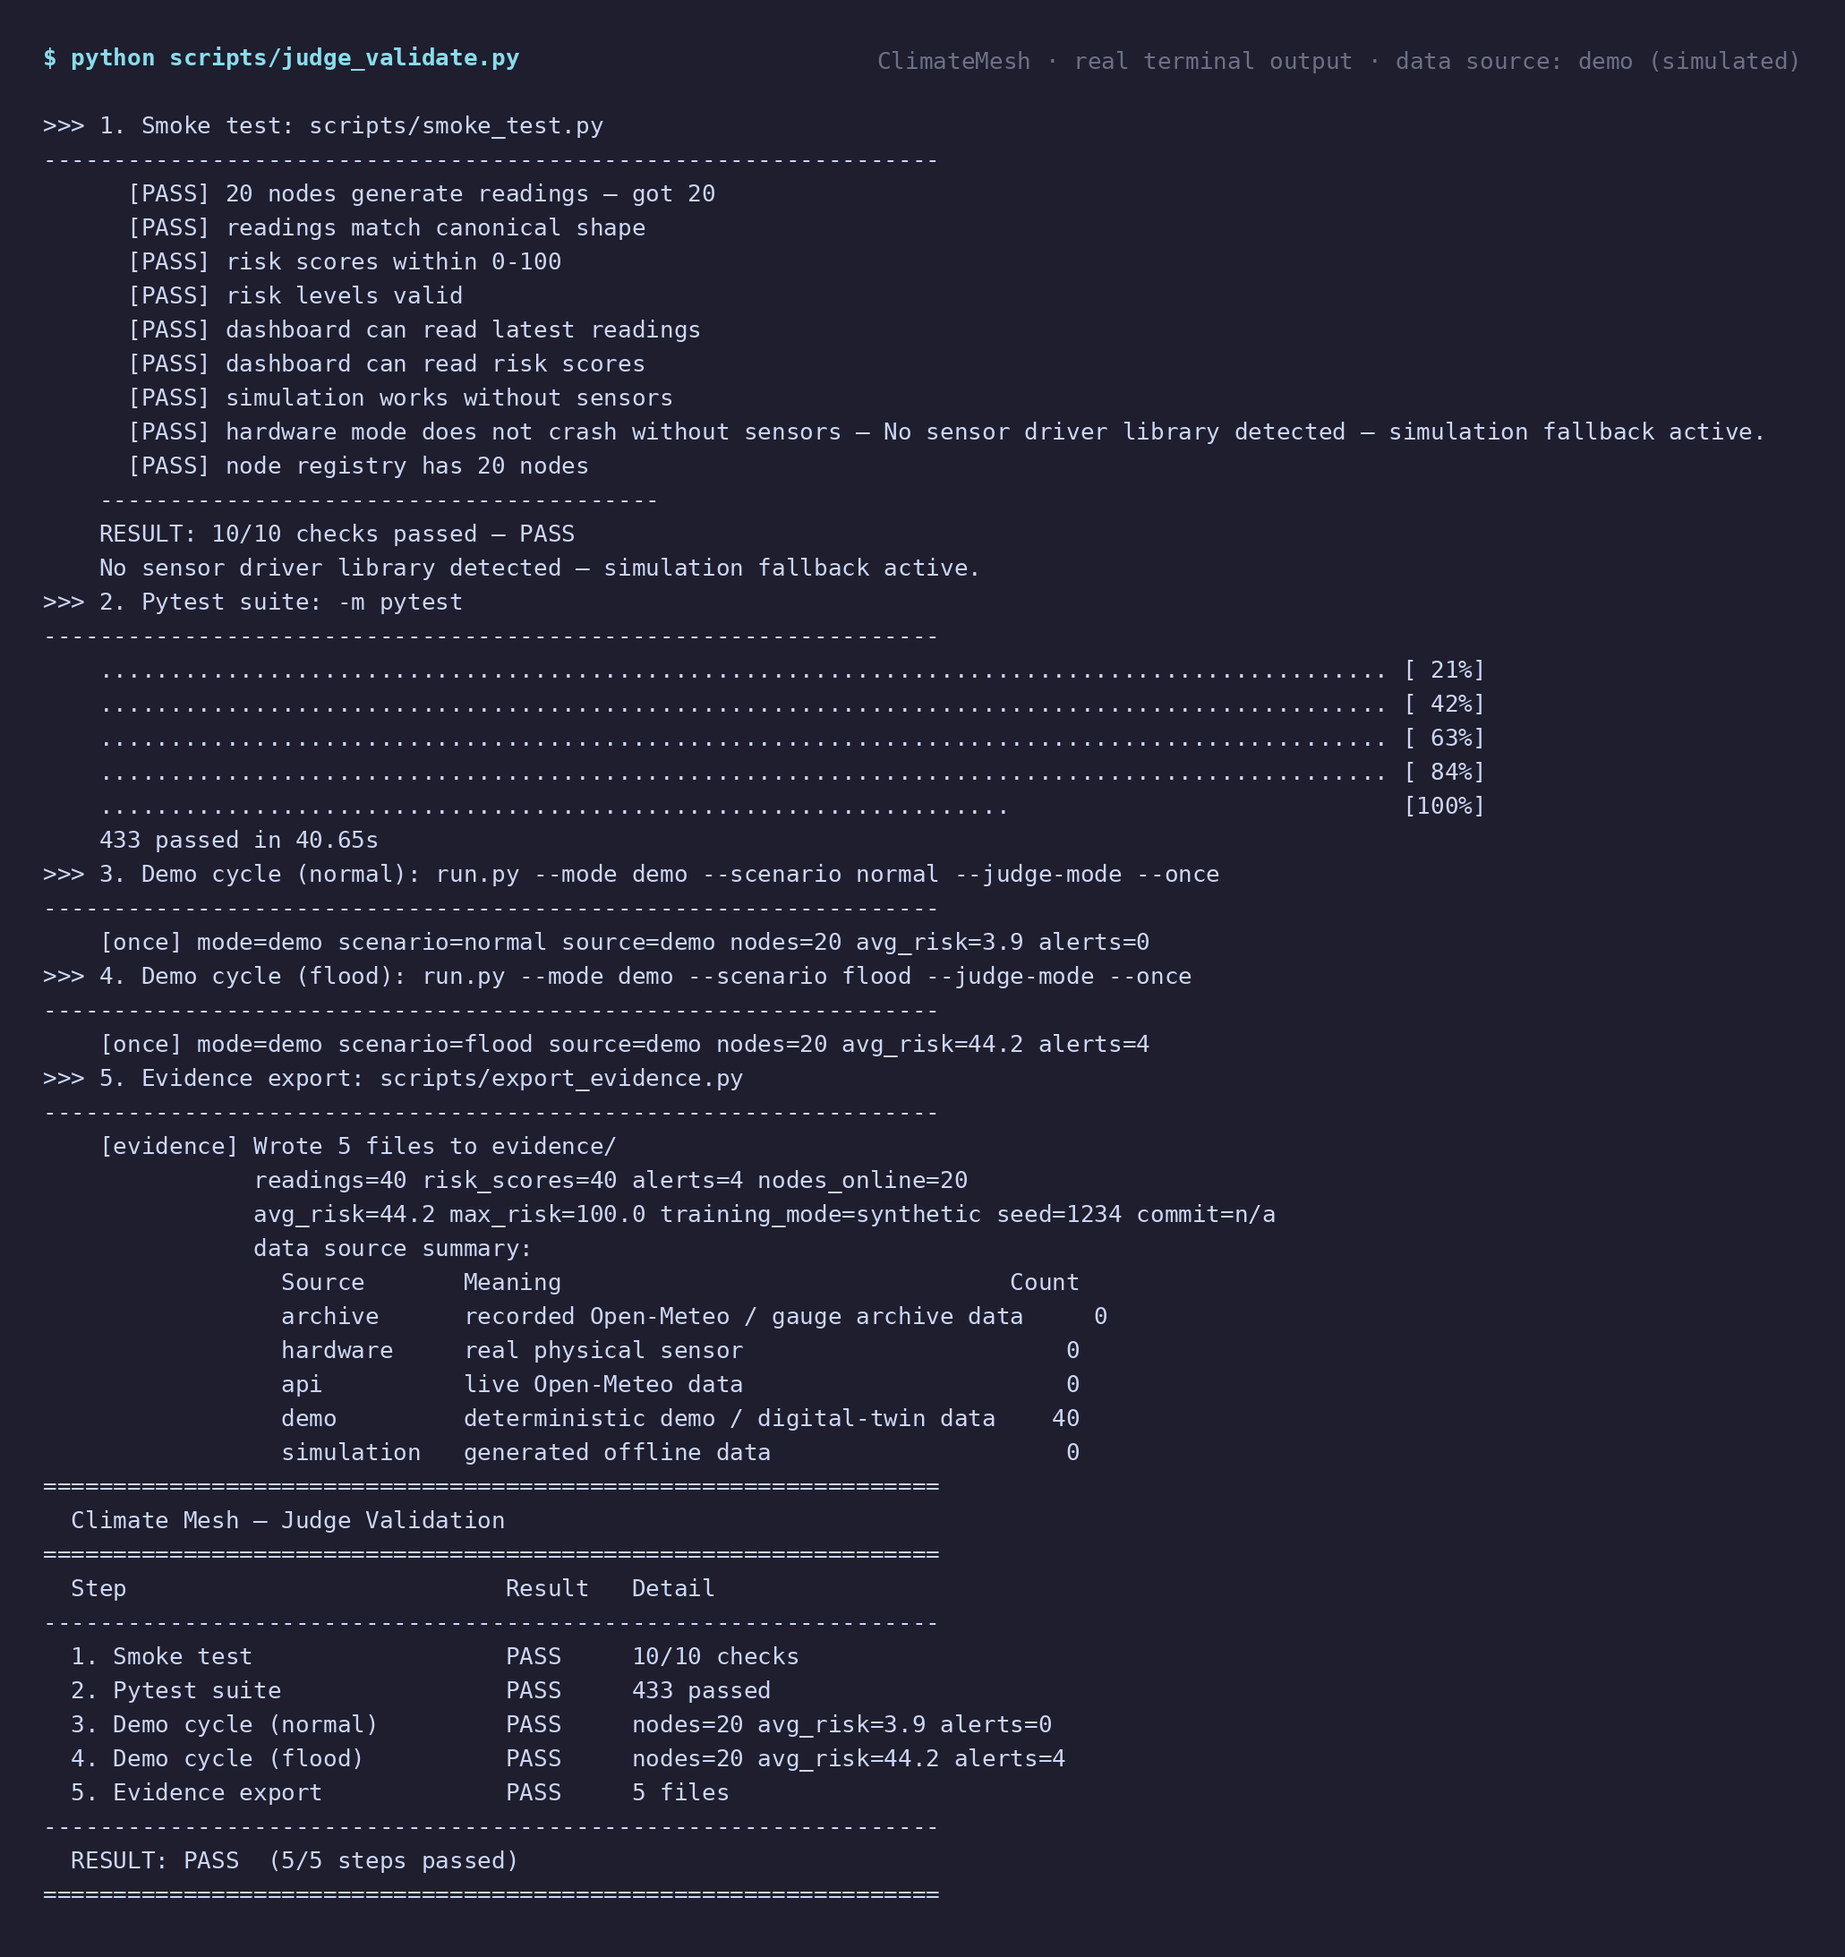
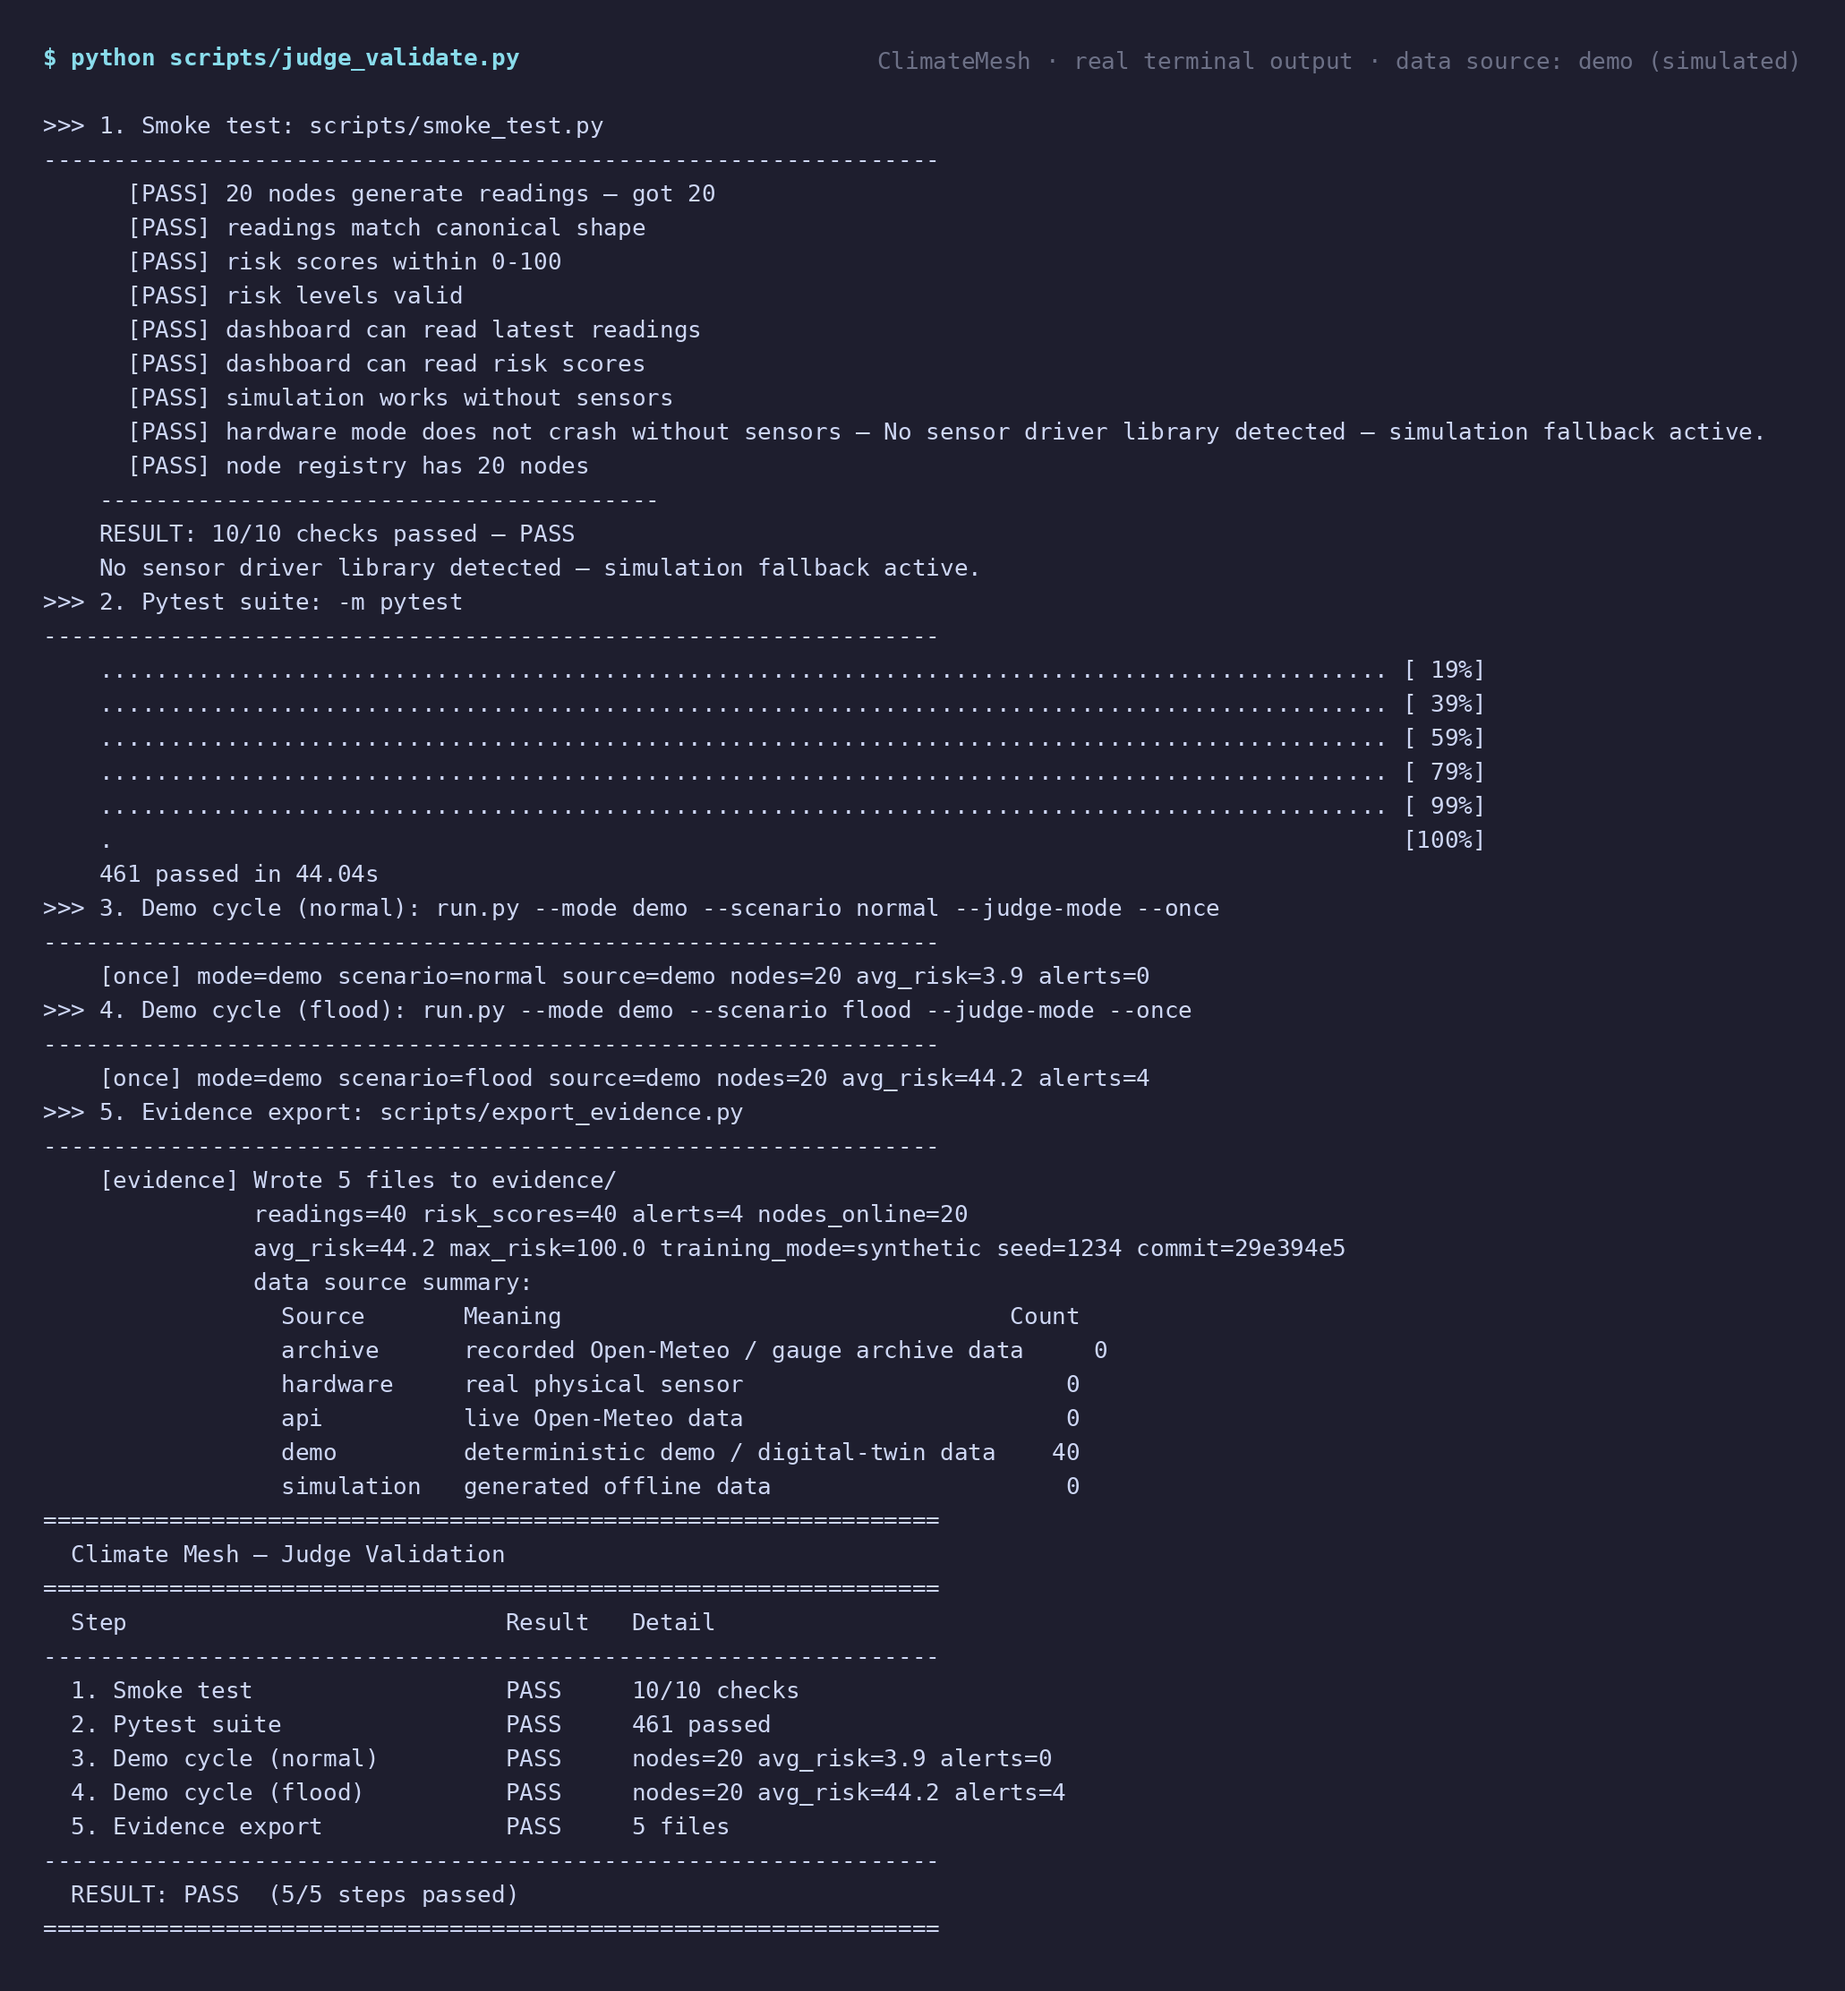
Refresh the test count, terminal captures and evidence card (461 tests)
Measured on Python 3.11 Linux: pytest 461 passed; judge_validate PASS 5/5.

diff --git a/README.md b/README.md
@@ -35,7 +35,7 @@ with no cloud subscription.
 **Measured results** *(from this repo's deterministic simulation/demo pipeline —
 not field measurements; no physical sensor has been validated yet)*:
 
-- **433/433 automated tests pass** on Python 3.11 in the recorded-event verification. The project also provides CI for Python 3.11/3.13 and 64-bit Arm Linux, plus `python scripts/judge_validate.py`.
+- **461/461 automated tests pass** on Python 3.11 (Linux, 3 November 2026). The project also provides CI for Python 3.11/3.13 and 64-bit Arm Linux, plus `python scripts/judge_validate.py`.
 - The demo tour (`python scripts/demo_tour.py`, a few seconds) discriminates
   correctly across scenarios: **normal stays SAFE** (avg risk 3.9, 0 alerts)
   while **flood escalates the right nodes** (Regent's Canal → CRITICAL
@@ -164,7 +164,7 @@ Vernier Go Direct Weather sensor is connected over USB, that node switches to
 ## Quick start (any computer)
 
 **Prerequisites:** Python **3.11, 3.12 or 3.13** and `git`. The recorded-event
-replay and current 433-test suite were verified here on Python 3.11.2.
+replay was verified on Python 3.11.2; the current 461-test suite passes on Python 3.11.
 CI runs 3.11 (what Raspberry Pi OS Bookworm
 ships) and 3.13 (what the Trixie-based release ships) on x86-64, plus 3.11 on
 a 64-bit Arm runner that installs prebuilt wheels only. Nothing else is needed
@@ -194,7 +194,7 @@ pytest
 step. One command runs everything a reviewer needs:
 
 ```bash
-python scripts/judge_validate.py   # smoke test + all 433 tests + 2 demo cycles + export
+python scripts/judge_validate.py   # smoke test + all 461 tests + 2 demo cycles + export
 python scripts/evaluate.py         # detection and false-alarm rates vs a thresholds-only baseline
 ```
 
@@ -720,7 +720,7 @@ action playbooks**, **mesh correlation**, a **local digital twin**, and
 ```bash
 python scripts/judge_validate.py     # one command: smoke + pytest + demos + export
 python scripts/demo_tour.py          # one command: all 5 scenarios, deterministic
-pytest                               # the full unit-test suite (433 tests)
+pytest                               # the full unit-test suite (461 tests)
 python scripts/smoke_test.py
 python scripts/run_validation.py --mode demo --scenario flood
 python scripts/test_hardware_read.py # REAL HARDWARE vs FALLBACK SIMULATION
